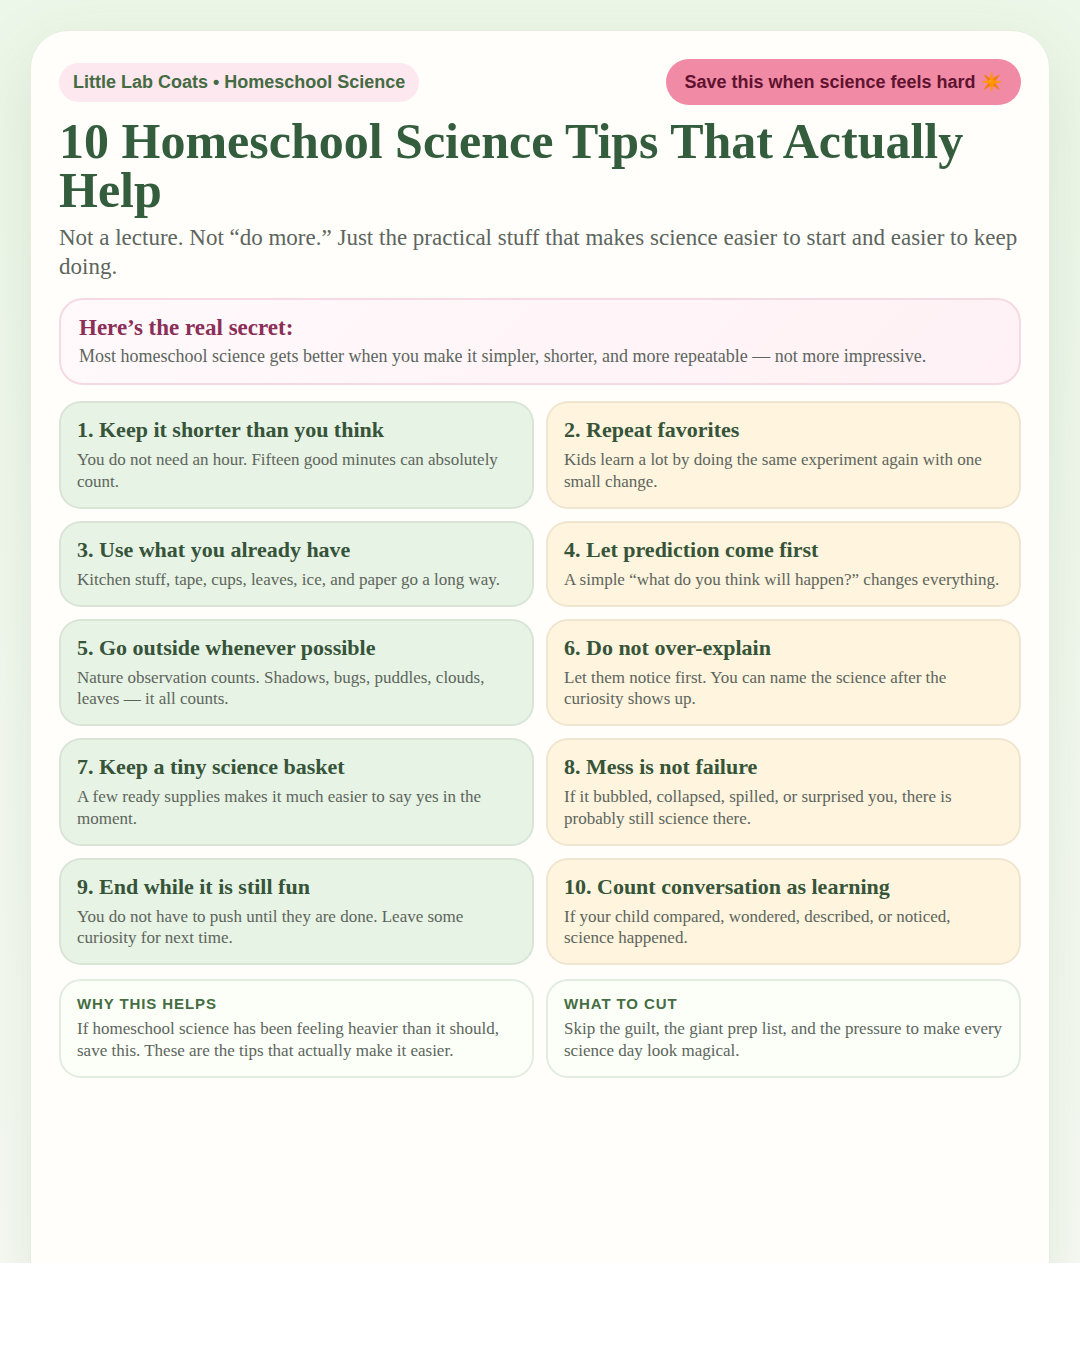
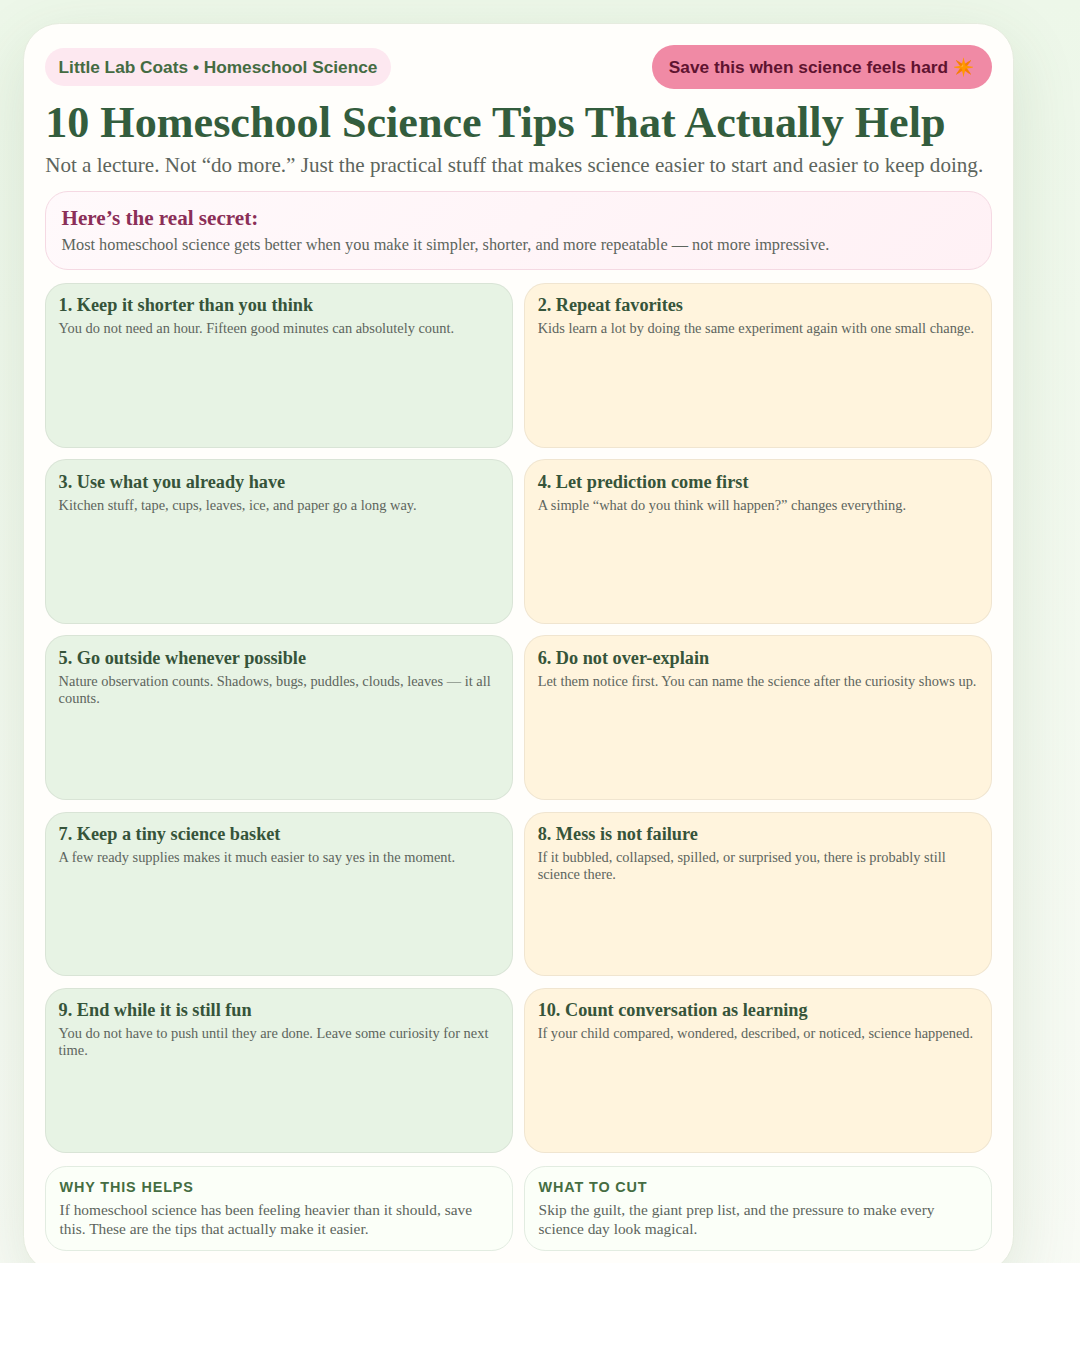
Tighten social post layouts and bottom spacing

diff --git a/social/2026-05-17-summer-social-posts/posts/06-household-science-supplies.html b/social/2026-05-17-summer-social-posts/posts/06-household-science-supplies.html
@@ -21,46 +21,47 @@
       font-family: Georgia, "Times New Roman", serif;
       background: linear-gradient(180deg, #edf7e9 0%, #f9fbf6 100%); color: var(--ink);
     }
-    .frame { width: 1080px; height: 1350px; padding: 30px; }
+    .frame { width: 1080px; height: 1350px; padding: 24px; zoom: 0.96; transform-origin: top left; }
     .card {
-      height: 100%; background: var(--cream); border-radius: 38px; padding: 28px;
+      height: 100%; background: var(--cream); border-radius: 38px; padding: 22px;
       border: 1px solid #e6ecdf; box-shadow: 0 22px 70px rgba(74,110,56,.14);
+      display: flex; flex-direction: column;
     }
     .topbar { display:flex; justify-content:space-between; align-items:center; margin-bottom:12px; gap:12px; }
     .eyebrow, .save { font: 800 18px Lato, Arial, sans-serif; border-radius:999px; }
     .eyebrow { background: var(--sage); color: var(--green); padding: 9px 14px; }
     .save { background: #f2b36d; color: #5b3700; padding: 12px 18px; }
-    h1 { margin: 0 0 8px; font-size: 52px; line-height: .98; color: #335d3d; }
-    .sub { margin: 0 0 16px; font-size: 24px; line-height: 1.28; color: var(--muted); }
+    h1 { margin: 0 0 8px; font-size: 48px; line-height: .98; color: #335d3d; }
+    .sub { margin: 0 0 14px; font-size: 22px; line-height: 1.25; color: var(--muted); }
     .hook {
       background: linear-gradient(135deg, #fffaf1, #fff4df); border: 2px solid #f5ddb7; border-radius: 24px;
-      padding: 16px 18px; margin-bottom: 16px;
+      padding: 14px 16px; margin-bottom: 14px;
     }
-    .hook strong { display:block; font-size: 23px; color:#8b5a11; margin-bottom: 4px; }
-    .hook p { margin:0; font-size:18px; line-height:1.32; color:var(--muted); }
-    .grid { display:grid; grid-template-columns: 1fr 1fr; gap: 14px; }
-    .box { border-radius: 24px; padding: 18px; border: 2px solid rgba(0,0,0,.06); }
+    .hook strong { display:block; font-size: 22px; color:#8b5a11; margin-bottom: 4px; }
+    .hook p { margin:0; font-size:17px; line-height:1.28; color:var(--muted); }
+    .grid { display:grid; grid-template-columns: 1fr 1fr; gap: 14px; flex: 1; align-content: stretch; }
+    .box { border-radius: 24px; padding: 16px 18px; border: 2px solid rgba(0,0,0,.06); min-height: 166px; }
     .box.one { background: var(--sand); }
     .box.two { background: var(--sky); }
     .box.three { background: var(--peach); }
     .box.four { background: var(--sage); }
-    .box h2 { margin:0 0 10px; font-size: 24px; color:#36543a; }
+    .box h2 { margin:0 0 9px; font-size: 23px; color:#36543a; }
     .chip-row { display:flex; flex-wrap:wrap; gap:8px; margin: 0 0 12px; }
     .chip {
-      background: rgba(255,255,255,.84); border-radius:999px; padding: 7px 11px;
-      font: 800 15px Lato, Arial, sans-serif; color:#45624c;
+      background: rgba(255,255,255,.84); border-radius:999px; padding: 6px 10px;
+      font: 800 14px Lato, Arial, sans-serif; color:#45624c;
     }
-    .box p, .box li { font-size: 18px; line-height: 1.28; margin: 0; }
+    .box p, .box li { font-size: 17px; line-height: 1.24; margin: 0; }
     .box ul { margin: 8px 0 0; padding-left: 20px; }
     .box li { margin-bottom: 4px; }
     .footer {
-      display:grid; grid-template-columns: 1fr 1fr; gap:12px; margin-top:16px;
+      display:grid; grid-template-columns: 1fr 1fr; gap:12px; margin-top:14px;
     }
     .footer-box {
-      border-radius: 22px; padding: 14px 16px; background:#fbfff8; border:2px solid #e2ece1;
+      border-radius: 22px; padding: 12px 14px; background:#fbfff8; border:2px solid #e2ece1;
     }
     .footer-box h3 { margin:0 0 6px; font: 900 15px Lato, Arial, sans-serif; color:#456d42; letter-spacing:.06em; text-transform:uppercase; }
-    .footer-box p { margin:0; font-size:17px; line-height:1.28; color:var(--muted); }
+    .footer-box p { margin:0; font-size:16px; line-height:1.24; color:var(--muted); }
   </style>
 </head>
 <body>

diff --git a/social/2026-05-17-summer-social-posts/posts/07-top-10-homeschool-science-tips.html b/social/2026-05-17-summer-social-posts/posts/07-top-10-homeschool-science-tips.html
@@ -10,27 +10,27 @@
     }
     * { box-sizing:border-box; }
     html, body { margin:0; width:1080px; height:1350px; overflow:hidden; font-family:Georgia,"Times New Roman",serif; background:linear-gradient(180deg,#edf7e9 0%,#f9fbf6 100%); color:var(--ink); }
-    .frame { width:1080px; height:1350px; padding:30px; }
-    .card { height:100%; background:var(--cream); border-radius:38px; padding:28px; border:1px solid #e6ecdf; box-shadow:0 22px 70px rgba(74,110,56,.14); }
+    .frame { width:1080px; height:1350px; padding:24px; zoom:.96; transform-origin: top left; }
+    .card { height:100%; background:var(--cream); border-radius:38px; padding:22px; border:1px solid #e6ecdf; box-shadow:0 22px 70px rgba(74,110,56,.14); display:flex; flex-direction:column; }
     .topbar { display:flex; justify-content:space-between; align-items:center; gap:12px; margin-bottom:12px; }
     .eyebrow, .save { font:800 18px Lato,Arial,sans-serif; border-radius:999px; }
     .eyebrow { background:var(--rose); color:var(--green); padding:9px 14px; }
     .save { background:#f08aa5; color:#5f1330; padding:12px 18px; }
-    h1 { margin:0 0 8px; font-size:50px; line-height:.98; color:#335d3d; }
-    .sub { margin:0 0 16px; font-size:23px; line-height:1.28; color:var(--muted); }
-    .hook { background:linear-gradient(135deg,#fff9fb,#fff1f5); border:2px solid #f5d9e3; border-radius:24px; padding:15px 18px; margin-bottom:16px; }
-    .hook strong { display:block; font-size:23px; color:#8b2f58; margin-bottom:4px; }
-    .hook p { margin:0; font-size:18px; line-height:1.3; color:var(--muted); }
-    .tips { display:grid; grid-template-columns:1fr 1fr; gap:12px; }
-    .tip { border-radius:22px; padding:14px 16px; border:2px solid rgba(0,0,0,.06); background:#fbfff8; }
+    h1 { margin:0 0 8px; font-size:46px; line-height:.98; color:#335d3d; }
+    .sub { margin:0 0 14px; font-size:22px; line-height:1.24; color:var(--muted); }
+    .hook { background:linear-gradient(135deg,#fff9fb,#fff1f5); border:2px solid #f5d9e3; border-radius:24px; padding:14px 16px; margin-bottom:14px; }
+    .hook strong { display:block; font-size:22px; color:#8b2f58; margin-bottom:4px; }
+    .hook p { margin:0; font-size:17px; line-height:1.26; color:var(--muted); }
+    .tips { display:grid; grid-template-columns:1fr 1fr; gap:12px; flex:1; align-content:stretch; }
+    .tip { border-radius:22px; padding:12px 13px; border:2px solid rgba(0,0,0,.06); background:#fbfff8; min-height:90px; }
     .tip:nth-child(odd) { background:var(--sage); }
     .tip:nth-child(even) { background:var(--gold); }
-    .tip h2 { margin:0 0 6px; font-size:22px; color:#36543a; }
-    .tip p { margin:0; font-size:17px; line-height:1.28; color:var(--muted); }
+    .tip h2 { margin:0 0 4px; font-size:19px; color:#36543a; }
+    .tip p { margin:0; font-size:15px; line-height:1.2; color:var(--muted); }
     .footer { display:grid; grid-template-columns:1fr 1fr; gap:12px; margin-top:14px; }
-    .footer-box { border-radius:22px; padding:14px 16px; background:#fbfff8; border:2px solid #e2ece1; }
+    .footer-box { border-radius:22px; padding:12px 14px; background:#fbfff8; border:2px solid #e2ece1; }
     .footer-box h3 { margin:0 0 6px; font:900 15px Lato,Arial,sans-serif; color:#456d42; letter-spacing:.06em; text-transform:uppercase; }
-    .footer-box p { margin:0; font-size:17px; line-height:1.28; color:var(--muted); }
+    .footer-box p { margin:0; font-size:16px; line-height:1.24; color:var(--muted); }
   </style>
 </head>
 <body>

diff --git a/social/2026-05-17-summer-social-posts/posts/08-curious-about-weather-clues-free-lesson.html b/social/2026-05-17-summer-social-posts/posts/08-curious-about-weather-clues-free-lesson.html
@@ -8,8 +8,8 @@
     :root { --ink:#243127; --muted:#59685a; --green:#3f6f4d; --cream:#fffefb; --sky:#e6f4ff; --mint:#e7f6ec; --gold:#fff4db; }
     * { box-sizing:border-box; }
     html, body { margin:0; width:1080px; height:1350px; overflow:hidden; font-family:Georgia,"Times New Roman",serif; background:linear-gradient(180deg,#edf7e9 0%,#f9fbf6 100%); color:var(--ink); }
-    .frame { width:1080px; height:1350px; padding:28px; }
-    .card { height:100%; background:var(--cream); border-radius:38px; padding:24px; border:1px solid #e6ecdf; box-shadow:0 22px 70px rgba(74,110,56,.14); }
+    .frame { width:1080px; height:1350px; padding:24px; }
+    .card { height:100%; background:var(--cream); border-radius:38px; padding:20px; border:1px solid #e6ecdf; box-shadow:0 22px 70px rgba(74,110,56,.14); display:flex; flex-direction:column; }
     .topbar { display:flex; justify-content:space-between; align-items:center; gap:12px; margin-bottom:10px; }
     .eyebrow, .cta { font:800 18px Lato,Arial,sans-serif; border-radius:999px; }
     .eyebrow { background:var(--mint); color:var(--green); padding:9px 14px; }
@@ -17,19 +17,19 @@
     h1 { margin:0 0 8px; font-size:50px; line-height:.98; color:#2f5c67; }
     .sub { margin:0 0 14px; font-size:23px; line-height:1.28; color:var(--muted); }
     .hero { display:grid; grid-template-columns: 1fr .94fr; gap:14px; margin-bottom:14px; }
-    .hero img { width:100%; height:365px; object-fit:cover; border-radius:26px; display:block; border:2px solid #d9edf8; }
+    .hero img { width:100%; height:470px; object-fit:cover; border-radius:26px; display:block; border:2px solid #d9edf8; }
     .snippet { background:linear-gradient(135deg,#f7fcff,#eef8ff); border:2px solid #dceef9; border-radius:26px; padding:18px; display:flex; flex-direction:column; justify-content:center; }
-    .snippet strong { display:block; font-size:24px; color:#2f5c67; margin-bottom:6px; }
-    .snippet p { margin:0 0 10px; font-size:18px; line-height:1.34; color:var(--muted); }
-    .quote { background:#fff; border-left:5px solid #7dc7f2; border-radius:14px; padding:12px 14px; font-size:18px; line-height:1.35; color:#385260; }
+    .snippet strong { display:block; font-size:23px; color:#2f5c67; margin-bottom:6px; }
+    .snippet p { margin:0 0 10px; font-size:17px; line-height:1.3; color:var(--muted); }
+    .quote { background:#fff; border-left:5px solid #7dc7f2; border-radius:14px; padding:12px 14px; font-size:17px; line-height:1.3; color:#385260; }
     .bottom { display:grid; grid-template-columns:1fr 1fr; gap:14px; }
-    .box { border-radius:24px; padding:16px 18px; border:2px solid rgba(0,0,0,.06); }
+    .box { border-radius:24px; padding:16px 18px; border:2px solid rgba(0,0,0,.06); min-height: 174px; }
     .box.one { background:var(--gold); }
     .box.two { background:var(--sky); }
     .box h2 { margin:0 0 8px; font-size:24px; color:#36543a; }
     .box p, .box li { margin:0; font-size:18px; line-height:1.3; color:var(--muted); }
     .box ul { margin:8px 0 0; padding-left:20px; }
-    .link-card { margin-top:14px; border-radius:24px; background:#f9fcf9; border:2px solid #e2ece1; padding:16px 18px; }
+    .link-card { margin-top:auto; border-radius:24px; background:#f9fcf9; border:2px solid #e2ece1; padding:18px 18px; }
     .link-card h3 { margin:0 0 6px; font:900 16px Lato,Arial,sans-serif; color:#456d42; letter-spacing:.06em; text-transform:uppercase; }
     .link-card p { margin:0; font-size:18px; line-height:1.3; color:var(--muted); }
   </style>